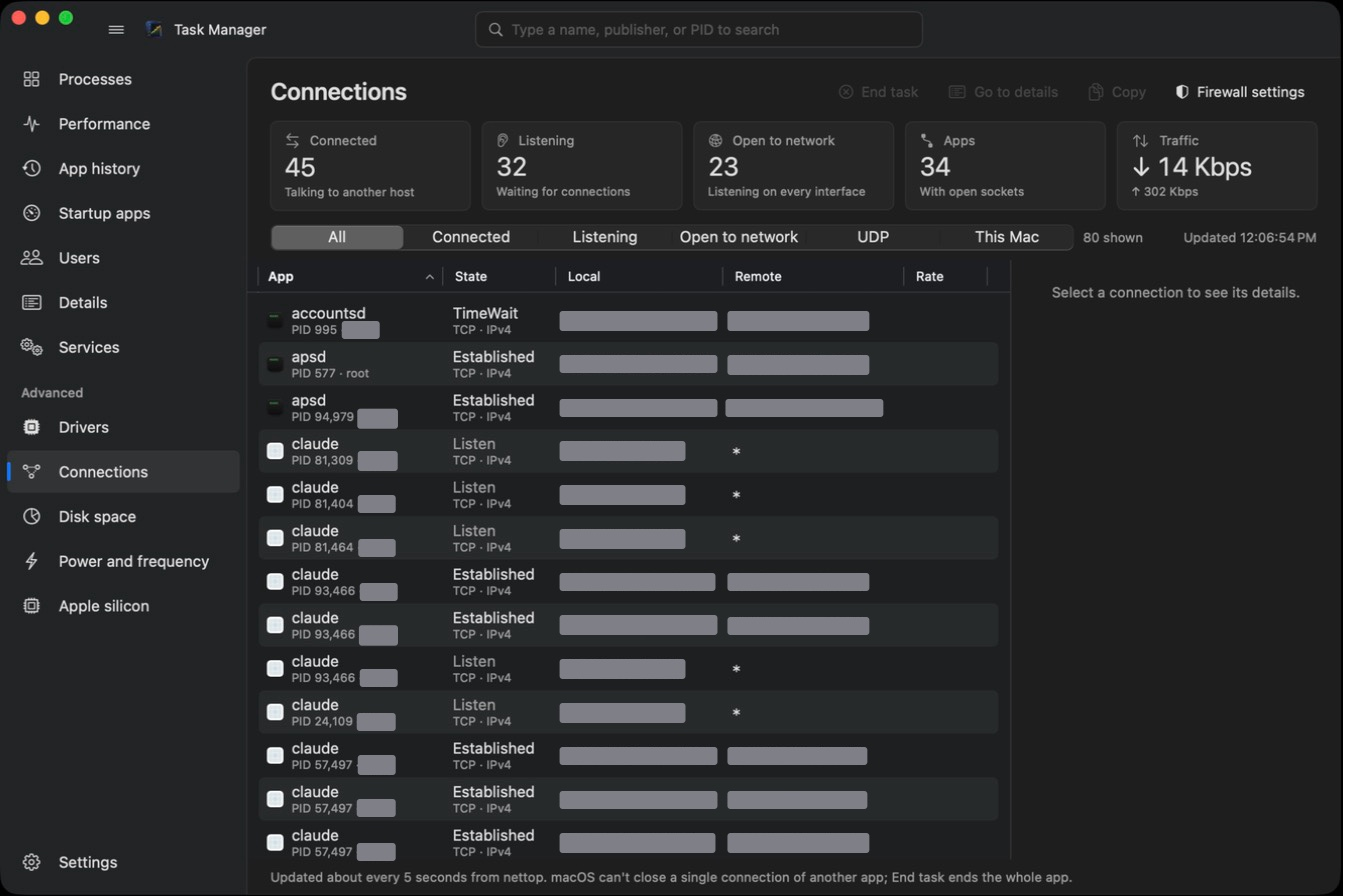
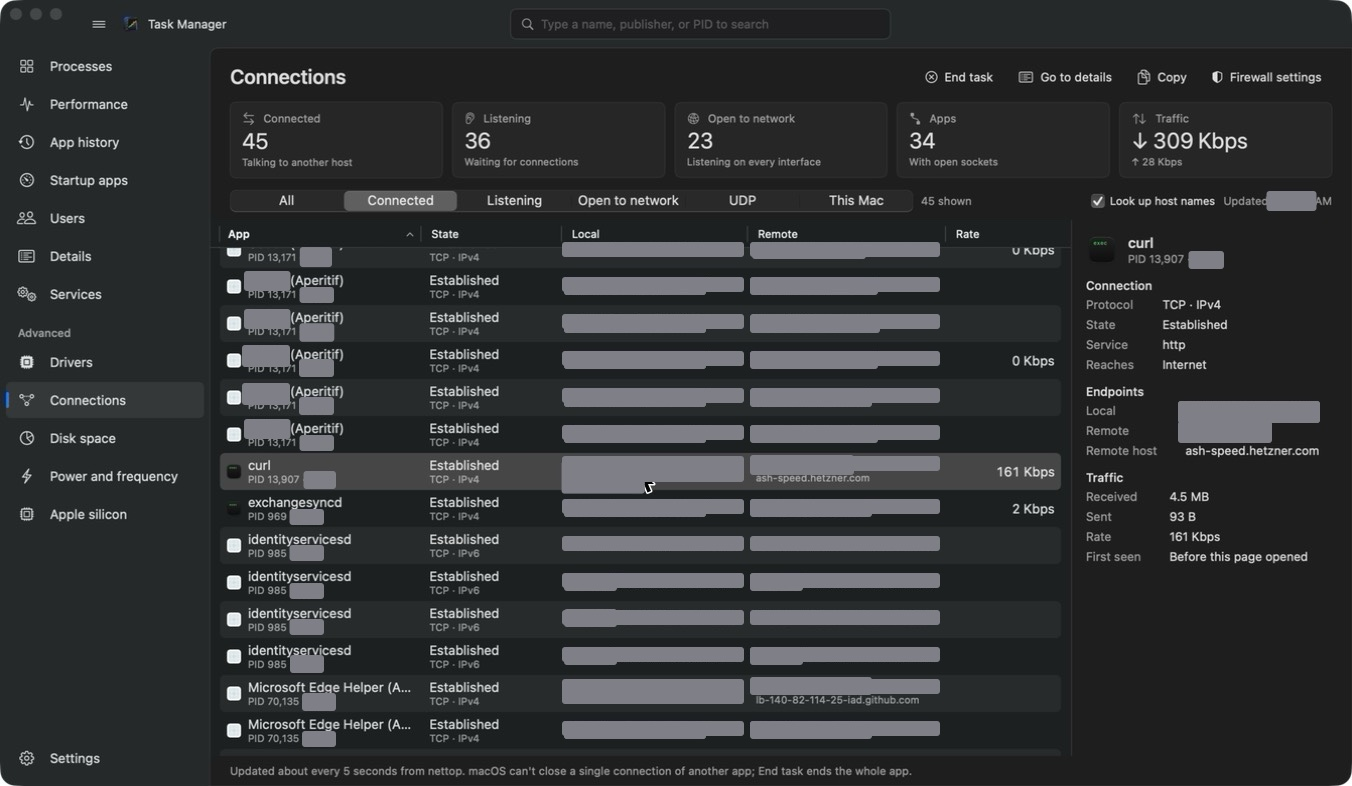
win-task-manager 1.6
Update the README, release history, screenshot tour and technical overview for 1.6, with new Connections and end-process screenshots.

diff --git a/Casks/win-task-manager.rb b/Casks/win-task-manager.rb
@@ -1,6 +1,6 @@
 cask "win-task-manager" do
-  version "1.5"
[1 lines of base64/hex data omitted]
+  version "1.6"
[1 lines of base64/hex data omitted]
 
   url "https://github.com/alexd-gh/homebrew-tap/releases/download/v#{version}/TaskManager-#{version}.zip"
   name "Task Manager"

diff --git a/README.md b/README.md
@@ -12,14 +12,14 @@ downloads and the documentation; the app's source code is not published.
 
 | | |
 |---|---|
-| Latest version | **1.5** (build 54), 21 November 2026 ([what's new](#whats-new-in-15)) |
+| Latest version | **1.6** (build 56), 23 November 2026 ([what's new](#whats-new-in-16)) |
 | Requires | macOS 14 Sonoma or later |
 | Runs on | Apple silicon and Intel (universal app) |
 | Price | Free, also for commercial use ([license](#license)) |
 | Signing | Ad-hoc signed, not notarized ([first launch](#first-launch)) |
 | Author | [alexd-gh](https://github.com/alexd-gh) |
 
-[Install](#install) · [First launch](#first-launch) · [What's new](#whats-new-in-15) · [Features](#features) · [Screenshots](#screenshots) ·
+[Install](#install) · [First launch](#first-launch) · [What's new](#whats-new-in-16) · [Features](#features) · [Screenshots](#screenshots) ·
 [Permissions and privacy](#permissions-and-privacy) · [Known limits](#known-limits) · [License](#license) ·
 [Technical overview](docs/technical-overview.md) · [Release history](CHANGELOG.md)
 
@@ -53,23 +53,37 @@ unzip it and drag **Task Manager** to Applications.
    continues and is remembered; **Quit** (or Escape) closes the app. You're asked again only if the license terms
    change. The text is always available under Task Manager › About Task Manager › License….
 
-## What's new in 1.5
+## What's new in 1.6
 
-**Core kinds on the CPU page.** With one graph per logical processor, each graph says what kind of core it is
-("E · CPU 0" for efficiency, "P · CPU 4" for performance), efficiency cores get a teal frame, and a line under the
-graphs lists which CPUs are which.
+A safety and reliability release.
 
-![Performance › CPU with core kinds](docs/images/performance-cpu-cores.jpg)
+**Safer End task.** Ending WindowServer, loginwindow or another critical system process now asks first, as Windows
+does. End task, priority and Efficiency mode check that the process is still the one you picked, so a reused process
+ID is left alone, and End process tree won't touch launchd.
 
-**Memory graph by type.** Right-click the memory graph › Change graph to › Composition to stack App memory, Wired,
-Compressed and Cached in the composition bar's colours, with the "in use" line on top. Hover it for the split at any
-moment in the last 60 seconds. It's off by default and remembered once you switch it on.
+![End this system process? confirmation](docs/images/end-system-process.jpg)
 
-![Performance › Memory split by type](docs/images/performance-memory-composition.jpg)
+**Trustworthy publishers.** "Apple Inc." and the Apple driver vendor now come only from Apple's own signature; code
+that was changed after signing shows "Invalid signature". Signatures are checked in the background, so large apps
+no longer slow a refresh.
 
-Earlier releases added open handles per process (Properties › Network and Files, Find open file or port, and Handles,
-Files, Sockets and Pipes columns in Details), double-click-to-fill-the-screen and background Disk space scans. Every
-change is in the [release history](CHANGELOG.md), with pictures in the [screenshot tour](docs/screenshots.md#new-in-12-to-15).
+**Safer Restart as administrator.** Task Manager checks that its program file is still the code that's running before
+starting the administrator copy, and the app is now signed with the hardened runtime. In the administrator copy, Run
+new task opens things as you unless you tick the administrator box, and commands run as administrator write their
+output to `~/Library/Logs/Task Manager`. Settings you change before restarting always carry over, and Disk space's
+Move to Trash is off while elevated.
+
+**Connections** looks up at most four host names at a time, and a new **Look up host names** switch turns the lookups
+off.
+
+![Advanced › Connections with the Look up host names switch](docs/images/advanced-connections.jpg)
+
+Also: Disk space scans use far less memory (about 170 MB instead of 1.1 GB for ~/Library), helper commands can't hang
+a page, network speeds stay right on fast links, and the battery log is read only while Performance is open.
+
+1.5 added core kinds on the CPU page and a memory graph split by type; earlier releases added open handles per
+process, Find open file or port, double-click-to-fill-the-screen and background Disk space scans. Every change is in
+the [release history](CHANGELOG.md), with pictures in the [screenshot tour](docs/screenshots.md#new-in-12-to-16).
 
 ## Features
 
@@ -109,6 +123,7 @@ Switched on in Settings, an **Advanced** section adds pages that Windows Task Ma
 - **Extended graphs**: an optional graph style with smooth glowing curves coloured by level and LED meters.
 - **Show advanced readings**: CPU clock speed, Neural Engine (NPU) power, temperatures and "Not responding" status.
 - **Restart as administrator** (File menu) to see CPU, memory and disk for other users' and root's processes.
+  Ending a critical system process asks first.
 - **Control-Shift-Escape** brings Task Manager forward and, if you switch it on, also opens it when it isn't running.
 - **One copy only**, as on Windows: launching it again brings the running window forward.
 - **Light and dark app icon**; on macOS 26 and later the Dock and Finder switch with dark mode.
@@ -206,7 +221,7 @@ and keeps what it records on your Mac.
 | Administrator password or Touch ID | Only when you disable a system startup item, control a system service or restart as administrator | These change system-wide settings or need root |
 | Location | Only if you allow it, for the Performance page's Wi-Fi tile | macOS shows the Wi-Fi network name only to apps with Location access. Your location itself is never read |
 | Login items | Only if you switch on Open at login or Control-Shift-Escape when closed | Registers the app, or its small hotkey helper, as a login item; switch it off in Settings |
-| Network | Only on the Advanced › Connections page | Looks up the names of remote hosts you're already connected to (reverse DNS). **Search online** opens your web browser |
+| Network | Only on the Advanced › Connections page | Looks up the names of remote hosts you're already connected to (reverse DNS); switch it off with **Look up host names**. **Search online** opens your web browser |
 
 **Files it writes:**
 
@@ -214,7 +229,7 @@ and keeps what it records on your Mac.
 |---|---|
 | `~/Library/Preferences/local.alexd-gh.wintaskmanager.plist` | Settings, license acceptance, startup-item disable dates, disk scan history |
 | `~/Library/Application Support/Task Manager/` | App history (30 days; older days are deleted) |
-| `~/Library/Logs/Task Manager/` | Process samples you create |
+| `~/Library/Logs/Task Manager/` | Process samples you create, and the output of commands run as administrator |
 
 `brew uninstall --zap` deletes all three, and the settings file of versions before 1.2
 (`local.alexander.wintaskmanager.plist`).

diff --git a/docs/technical-overview.md b/docs/technical-overview.md
@@ -101,15 +101,15 @@ depends on it shows "—" or is hidden; the rest of the app keeps working.
 
 | Action | What happens |
 |---|---|
-| End task | Asks an app to quit the normal way, as quitting from the Dock does; for other processes, sends the terminate signal (`SIGTERM`) |
-| Force quit / End process tree | Sends the kill signal (`SIGKILL`) to the process, or to it and all its descendants |
+| End task | Asks an app to quit the normal way, as quitting from the Dock does; for other processes, sends the terminate signal (`SIGTERM`). Every process action first checks the process's start time, so a process ID that macOS has since reused is left alone. Critical system processes (WindowServer, loginwindow, launchd and similar, or any root system process while elevated) ask first |
+| Force quit / End process tree | Sends the kill signal (`SIGKILL`) to the process, or to it and all its descendants. End process tree refuses launchd, whose tree is every process |
 | Restart (Finder, Dock and similar) | Ends the process; macOS starts it again on its own |
 | Efficiency mode | Puts the process into macOS's background policy, the same as `taskpolicy -b`: efficiency cores only and throttled disk and network. Your own processes only |
 | Set priority | Changes the process's scheduling priority (nice value); raising it needs root |
 | Create process sample | macOS's `sample` tool records the process's call stacks for a few seconds, the Mac equivalent of Windows' "Create dump file" |
 | Enable / disable startup item | Changes launchd's enabled state for that agent or daemon; takes effect at the next sign-in or restart |
 | Start / stop / restart service | Asks launchd to start, stop or restart the service |
-| Run new task | Opens an app, file, folder or web address; anything else runs as a shell command in the background, as root if you tick "Create this task with administrative privileges" |
+| Run new task | Opens an app, file, folder or web address; anything else runs as a shell command in the background. Ticking "Create this task with administrative privileges" runs program files and commands as root, with their output in `~/Library/Logs/Task Manager/Run as administrator.log`; in the administrator copy everything else opens as you |
 | Search online | Opens a web search for the process name in your browser |
 
 ## Administrator rights
@@ -120,8 +120,10 @@ Task Manager runs as you. Two things need more:
   If Touch ID for `sudo` is set up on your Mac, you approve it with Touch ID; otherwise macOS shows its standard
   administrator password dialog. Task Manager never sees or stores your password.
 - **Restart as administrator** (File menu) starts a second copy as root, after you authenticate, and closes the
-  first. Your current settings are handed over to it, so it looks the same, but changes you make while elevated
-  aren't saved, because root has its own preferences.
+  first. Before that it checks that the app's program file is still the code that's running, and the root shell
+  checks its code signature hash again just before starting it. Your current settings are handed over to it (they
+  replace any root saved earlier), so it looks the same, but changes you make while elevated aren't saved, because
+  root has its own preferences. Disk space's Move to Trash is off in the administrator copy.
 
 ## Background pieces
 
@@ -141,10 +143,10 @@ Both login items appear in System Settings › General › Login Items and switc
 |---|---|---|
 | Settings, license acceptance, startup-item disable dates, disk scan history | `~/Library/Preferences/local.alexd-gh.wintaskmanager.plist` (`local.alexander.wintaskmanager.plist` before 1.2) | Until you change or delete them |
 | App history (daily totals per app) | `~/Library/Application Support/Task Manager/` | 30 days, saved every minute and on quit |
-| Process samples | `~/Library/Logs/Task Manager/` | Until you delete them |
+| Process samples, output of commands run as administrator | `~/Library/Logs/Task Manager/` | Until you delete them |
 
 Nothing is sent anywhere. The only network traffic Task Manager causes itself is reverse DNS lookups for remote
-hosts on the Connections page.
+hosts on the Connections page, which you can switch off there (Look up host names).
 
 ## Performance cost
 
@@ -155,7 +157,9 @@ Task Manager is meant to stay out of the way of what it measures:
   hover, an open Properties tab or a search.
 - Per-process network uses one `nettop` snapshot every ~5 seconds. A continuous `nettop` stream was measured at
   about 1.5 CPU cores and is deliberately not used; the trade-off is that very short-lived processes can be missed.
-- Code-signature checks and reverse DNS lookups are cached, so each is done once per program or host.
+- Code-signature checks run on a background queue and are cached per program file (read again when the file
+  changes); reverse DNS lookups run at most four at a time and the latest 4,096 hosts are cached.
+- Every helper command (`nettop`, `launchctl`, `pmset`, …) has a time limit, so a hung one can't stall a page.
 - Graph motion in Extended graphs is done by Core Animation between samples, so the app does no work between
   samples for it.
 - Paused update speed stops the sampling loop.
@@ -166,9 +170,9 @@ Task Manager is meant to stay out of the way of what it measures:
 |---|---|
 | Download | A ZIP of `Task Manager.app` on this repository's releases; the cask installs it to `/Applications` |
 | Binary | Universal: Apple silicon (arm64) and Intel (x86_64) |
-| Signing | Ad-hoc signed, not notarized, so the first launch needs **Open Anyway** |
+| Signing | Ad-hoc signed with the hardened runtime (since 1.6), not notarized, so the first launch needs **Open Anyway**. The only entitlement is Location, for the Wi-Fi name |
 | Bundle identifiers | `local.alexd-gh.wintaskmanager` (app), `local.alexd-gh.wintaskmanager.hotkey` (hotkey helper); before 1.2 they began with `local.alexander`, and 1.2 copies the old settings over on first launch |
-| Version and build | Version is the release (1.5); the build number goes up by one with every change, so a higher build is always newer. About shows both, the build date and the changes since the previous release |
+| Version and build | Version is the release (1.6); the build number goes up by one with every change, so a higher build is always newer. About shows both, the build date and the changes since the previous release |
 | App icon | A light and a dark icon; on macOS 26 and later the Dock and Finder pick the one that matches dark mode |
 | License | Shown in About › License… and accepted on first launch; see [LICENSE](../LICENSE) |
 

diff --git a/docs/screenshots.md b/docs/screenshots.md
@@ -1,12 +1,12 @@
 # Screenshots
 
-A tour of every page in Task Manager for Mac, taken with 1.1 and with 1.2 – 1.5 for what they added, taken on a MacBook Pro with an M4 Max in dark mode.
+A tour of every page in Task Manager for Mac, taken with 1.1 and with 1.2 – 1.6 for what they added, taken on a MacBook Pro with an M4 Max in dark mode.
 Personal details (account names, IP addresses, the battery serial number and some installed security software)
 are covered with grey bars; everything else is as the app shows it.
 
 [Processes](#processes) · [Performance](#performance) · [App history](#app-history) · [Startup apps](#startup-apps) ·
 [Users](#users) · [Details](#details) · [Services](#services) · [Settings](#settings) · [Extended graphs](#extended-graphs) ·
-[Advanced pages](#advanced-pages) · [About and license](#about-and-license) · [New in 1.2 to 1.5](#new-in-12-to-15)
+[Advanced pages](#advanced-pages) · [About and license](#about-and-license) · [New in 1.2 to 1.6](#new-in-12-to-16)
 
 Back to the [README](../README.md) · [Technical overview](technical-overview.md)
 
@@ -202,7 +202,8 @@ and vendor.
 ### Connections
 
 Every open connection by app, with state, local and remote endpoints and traffic, filtered by connected, listening,
-open to the network, UDP or this Mac.
+open to the network, UDP or this Mac. Remote hosts with a name show it under the address; untick **Look up host
+names** to stop the lookups.
 
 ![Advanced: Connections](images/advanced-connections.jpg)
 
@@ -237,7 +238,24 @@ License… shows the full license and when you accepted it. The first launch ask
 
 ![License](images/about-license.jpg)
 
-## New in 1.2 to 1.5
+## New in 1.2 to 1.6
+
+### Confirm before ending a system process (1.6)
+
+Ending WindowServer, loginwindow, watchdogd or another process macOS can't run without now asks first and says what
+will happen. Processes Task Manager couldn't end anyway (another user's, without administrator rights) get the usual
+"Access is denied" instead.
+
+![End this system process?](images/end-system-process.jpg)
+
+### Look up host names (1.6)
+
+Advanced › Connections shows remote host names under the address and in the details pane (here a speed-test
+download). The new **Look up host names** switch turns the reverse DNS lookups off; at most four run at a time.
+
+![Advanced › Connections with host names](images/advanced-connections.jpg)
+
+![Extended graphs: Connections](images/extended-advanced-connections.jpg)
 
 ### Core kinds on the CPU page (1.5)
 

diff --git a/CHANGELOG.md b/CHANGELOG.md
@@ -3,6 +3,29 @@
 Downloads are on [Releases](https://github.com/alexd-gh/homebrew-tap/releases). Update with
 `brew upgrade --cask win-task-manager`.
 
+## 1.6 — 23 November 2026 (build 56)
+
+A safety and reliability release.
+
+- **Safer End task.** Ending WindowServer, loginwindow or another critical system process now asks first, as Windows
+  does. End task, Force quit, priority and Efficiency mode check that the process is still the one you picked, so a
+  reused process ID is left alone. End process tree won't touch launchd.
+- **Trustworthy publishers.** "Apple Inc." and the Apple driver vendor now come only from Apple's own signature;
+  code changed after signing shows "Invalid signature". Signatures are checked in the background, so large apps no
+  longer slow a refresh.
+- **Safer Restart as administrator.** Task Manager checks that its program file is still the running code before
+  starting the administrator copy, and the app is signed with the hardened runtime. In the administrator copy, Run
+  new task opens things as you unless the administrator box is ticked; commands run as administrator report a
+  failed password prompt and write their output to `~/Library/Logs/Task Manager`. Settings handed over always apply,
+  and Move to Trash is off while elevated.
+- **Connections:** at most four host-name lookups at a time, and a new **Look up host names** switch.
+- **Disk space** scans use far less memory (about 170 MB instead of 1.1 GB for ~/Library), refuse to trash an item
+  replaced since the scan, and no longer hide files from a similarly named folder in Largest files.
+- **Fixed:** a hung helper command could freeze the Network column or a page; fast network links could under-report;
+  the Power and frequency and Apple silicon pages could leak sensor connections on redraws; an odd fan count could
+  crash Power and frequency; app history that couldn't be read was overwritten. The battery log is now read only
+  while Performance is open, and Services re-reads launchd files only when they change.
+
 ## 1.5 — 21 November 2026 (build 54)
 
 - **Core kinds on the CPU page.** Performance › CPU › Logical processors tags each graph with its core kind
